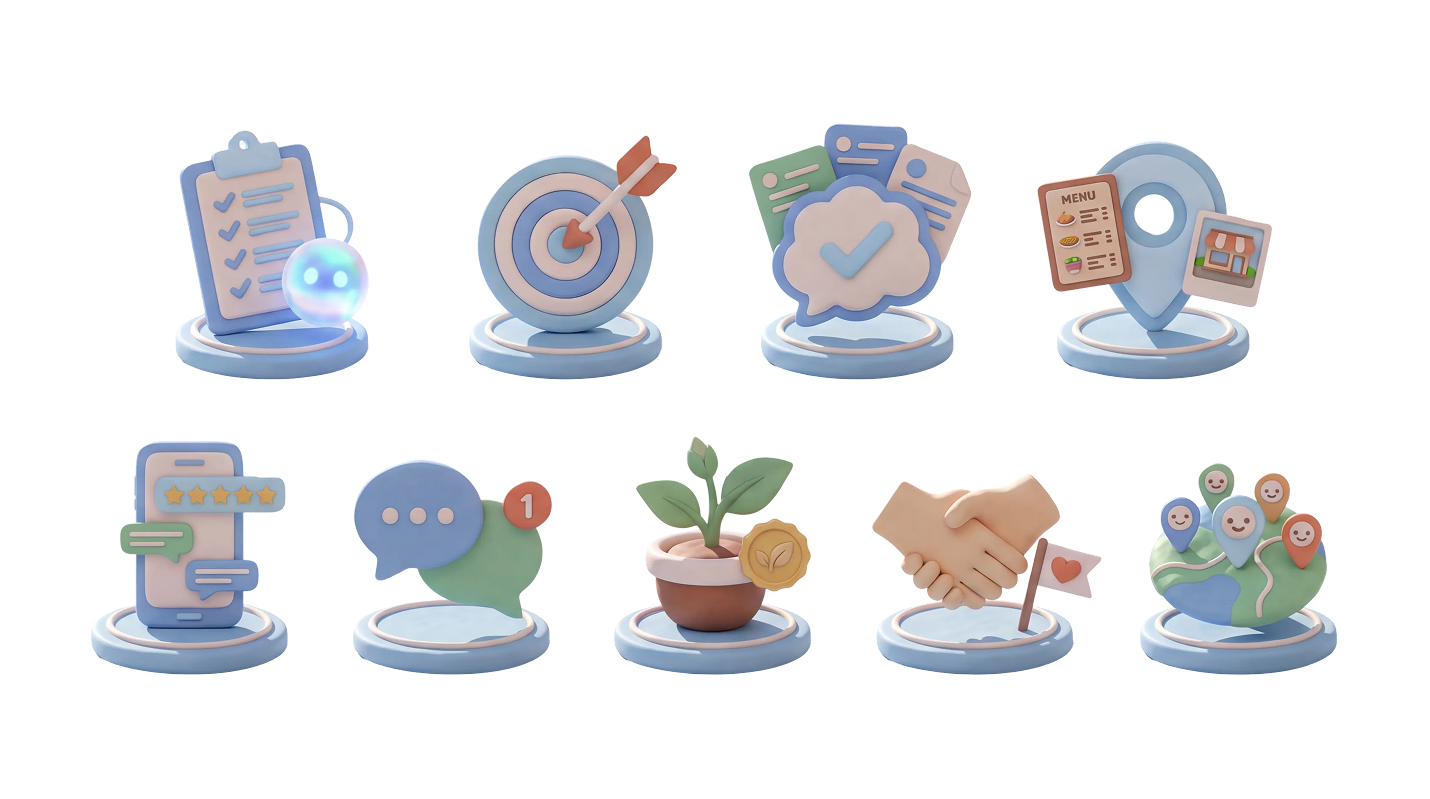
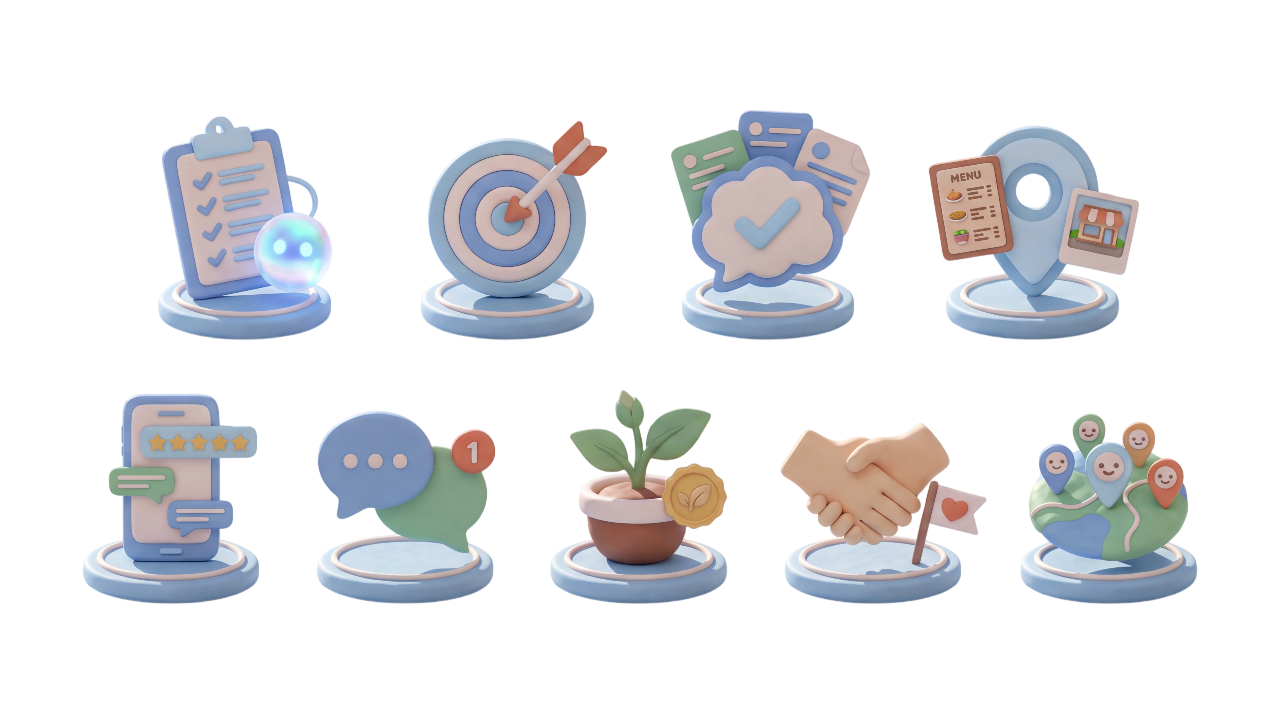
Design: 설문 페이지 이미지 수정

diff --git a/apps/web/src/components/survey/DetailCriteriaModal.tsx b/apps/web/src/components/survey/DetailCriteriaModal.tsx
@@ -1,5 +1,7 @@
 "use client";
 
+import { useEffect } from "react";
+
 type DetailCriteriaModalProps = {
   open: boolean;
   onClose: () => void;
@@ -9,30 +11,45 @@ export default function DetailCriteriaModal({
   open,
   onClose,
 }: DetailCriteriaModalProps) {
+  useEffect(() => {
+    if (!open) return;
+
+    const prevHtmlOverflow = document.documentElement.style.overflow;
+    const prevBodyOverflow = document.body.style.overflow;
+
+    document.documentElement.style.overflow = "hidden";
+    document.body.style.overflow = "hidden";
+
+    return () => {
+      document.documentElement.style.overflow = prevHtmlOverflow;
+      document.body.style.overflow = prevBodyOverflow;
+    };
+  }, [open]);
+
   if (!open) return null;
 
   return (
-    <div className="fixed inset-0 z-[999] flex items-center justify-center p-4">
+    <div
+      className="fixed inset-0 z-[999] flex items-center justify-center p-4 overflow-hidden"
+      role="dialog"
+      aria-modal="true"
+      aria-labelledby="detail-criteria-title"
+    >
       {/* dim */}
-      <div
-        className="absolute inset-0 bg-black/40"
+      <button
+        type="button"
+        className="absolute inset-0 bg-black/40 cursor-default"
         onClick={onClose}
-        aria-hidden
+        aria-label="close modal background"
       />
 
-      {/* modal box*/}
-      <div
-        className="relative z-[1000] w-full max-w-[613px] max-h-[85vh] bg-white rounded-t-[24px] rounded-b-[12px] border border-[#a0c49d] shadow-[0px_4px_20px_rgba(0,0,0,0.15)] overflow-hidden flex flex-col"
-        role="dialog"
-        aria-modal="true"
-        aria-labelledby="detail-criteria-title"
-      >
-        {/* content area*/}
+      {/* modal box */}
+      <div className="relative z-[1000] w-full max-w-[613px] max-h-[85vh] bg-white rounded-t-[24px] rounded-b-[12px] border border-[#a0c49d] shadow-[0px_4px_20px_rgba(0,0,0,0.15)] overflow-hidden flex flex-col">
+        {/* content area */}
         <div
           id="detail-criteria-title"
           className="px-8 pt-8 pb-8 overflow-y-auto text-left flex-1"
         >
-          {/* 1. 도입 문장  */}
           <p className="text-[15px] leading-[22px] text-black">
             소상공인은{" "}
             <span className="font-semibold text-black">
@@ -43,7 +60,6 @@ export default function DetailCriteriaModal({
 
           <div className="h-5" />
 
-          {/* 2. 상시 근로자란?*/}
           <p className="text-[16px] font-bold leading-[22px] text-black">
             상시 근로자란?
           </p>
@@ -67,7 +83,6 @@ export default function DetailCriteriaModal({
 
           <div className="h-5" />
 
-          {/* 3. 소기업이란?*/}
           <p className="text-[16px] font-bold leading-[22px] text-black">
             소기업이란?
           </p>
@@ -86,7 +101,6 @@ export default function DetailCriteriaModal({
 
           <div className="h-5" />
 
-          {/* 4. 연평균 매출액 기준*/}
           <p className="text-[16px] font-bold leading-[22px] text-black">
             연평균 매출액 기준
           </p>

diff --git a/apps/web/src/components/landing/landing-hero.tsx b/apps/web/src/components/landing/landing-hero.tsx
@@ -5,19 +5,32 @@ import Link from "next/link";
 
 export default function LandingHero() {
   return (
-    <div className="min-h-screen w-full bg-white overflow-x-hidden">
-      
+    <div className="w-full bg-white overflow-x-hidden">
       <main className="mx-auto max-w-6xl px-4 md:px-8">
         <section className="relative flex min-h-[calc(100vh-70px)] flex-col items-center justify-start pt-10 md:pt-14">
           
-          {/* Title */}
-          <div className="w-full max-w-4xl text-center">
+          <div className="pointer-events-none absolute left-1/2 top-[210px] z-0 w-[min(1100px,95vw)] -translate-x-1/2 md:top-[240px]">
+            <div className="relative aspect-[968/540] w-full">
+              <Image
+                src="/images/main-hero.png"
+                alt="메인 일러스트"
+                fill
+                className="object-contain"
+                priority
+              />
+            </div>
+          </div>
+
+          <div className="relative z-10 w-full max-w-4xl text-center">
             <h1 className="font-semibold text-[#2e2e2e]">
+              {/* 1st line */}
               <span className="block text-[36px] leading-[1.15] sm:text-[46px] md:text-[70px] md:leading-[72px]">
                 사장님 가게,
               </span>
 
-              <span className="mt-2 block text-[28px] leading-[1.2] sm:text-[36px] md:text-[60px] md:leading-[72px]">
+              <span className="block h-[18px] md:h-[28px]" aria-hidden="true" />
+
+              <span className="block text-[28px] leading-[1.2] sm:text-[36px] md:text-[60px] md:leading-[72px]">
                 지금 뭐부터 하면 좋을지
               </span>
 
@@ -26,7 +39,7 @@ export default function LandingHero() {
               </span>
             </h1>
 
-            {/*  CTA: /survey 로 이동 */}
+            {/* CTA */}
             <div className="mt-6 flex justify-center md:mt-8">
               <Link
                 href="/survey"
@@ -48,21 +61,7 @@ export default function LandingHero() {
             </div>
           </div>
 
-          {/* Hero Image */}
-          <div className="mt-10 w-full max-w-4xl md:mt-14">
-            <div className="relative aspect-[968/540] w-full">
-              <Image
-                src="/images/main-hero.png"
-                alt="메인 일러스트"
-                fill
-                className="object-contain"
-                priority
-              />
-            </div>
-          </div>
-
-          {/* Scroll Indicator */}
-          <div className="mt-10 flex items-center justify-center pb-10 md:mt-12">
+          <div className="absolute bottom-10 left-1/2 z-10 -translate-x-1/2">
             <div className="relative h-[21px] w-[46px]">
               <Image
                 src="/images/scroll.svg"
@@ -73,6 +72,7 @@ export default function LandingHero() {
             </div>
           </div>
 
+          <div className="h-[420px] md:h-[520px]" aria-hidden="true" />
         </section>
       </main>
     </div>

diff --git a/apps/web/src/app/(main)/survey/page.tsx b/apps/web/src/app/(main)/survey/page.tsx
@@ -75,7 +75,6 @@ export default function SurveyPage() {
       return;
     }
 
-    // ✅ 설문 완료: 임시 저장 + 결과 페이지로 이동
     try {
       sessionStorage.setItem("surveyAnswers", JSON.stringify(answers));
     } catch (e) {
@@ -90,27 +89,21 @@ export default function SurveyPage() {
     (selected ? (1 / TOTAL_STEPS) * 100 : 0);
 
   return (
-    <div className="relative min-h-[100svh] bg-white overflow-x-hidden">
-      {/* ✅ 배경 패널: transform으로만 위로 올림 (레이아웃/스크롤 깨짐 방지) */}
-      <div className="fixed inset-0 -z-10 flex justify-center pointer-events-none">
-        <div className="h-full w-full max-w-[1517px] rounded-[30px] bg-[#fafafa] -translate-y-[20px]" />
+    <div className="relative min-h-screen w-full bg-[#fafafa]">
+      {/* 배경 일러스트 */}
+      <div className="absolute left-1/2 -translate-x-1/2 top-[185px] w-full max-w-[1432px] pointer-events-none">
+        <Image
+          src="/images/survey-bg.png"
+          alt="배경 이미지"
+          width={1432}
+          height={799}
+          className="w-full h-auto object-contain"
+          priority
+        />
       </div>
 
-      {/* 배경 이미지 */}
-      <div className="absolute inset-x-0 top-[185px] flex justify-center pointer-events-none">
-        <div className="w-full max-w-[1432px]">
-          <Image
-            src="/images/survey-bg.png"
-            alt="배경 이미지"
-            width={1432}
-            height={799}
-            className="w-full h-auto object-cover"
-            priority
-          />
-        </div>
-      </div>
-
-      <main className="relative z-10 flex flex-col items-center px-4 pt-[150px] pb-16">
+      {/* 컨텐츠 */}
+      <main className="relative z-10 flex flex-col items-center px-4 pt-[140px] pb-[120px]">
         <p className="text-center text-[16px] md:text-[18px] text-[#6e6e6e] max-w-[720px]">
           로그인 후 &apos;내 가게&apos;에서 언제든지 정보를 수정할 수 있어요!
         </p>
